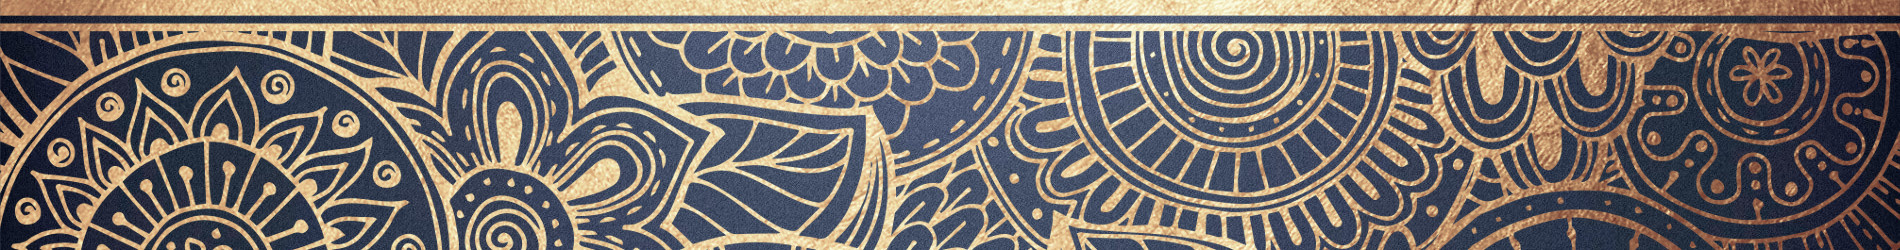
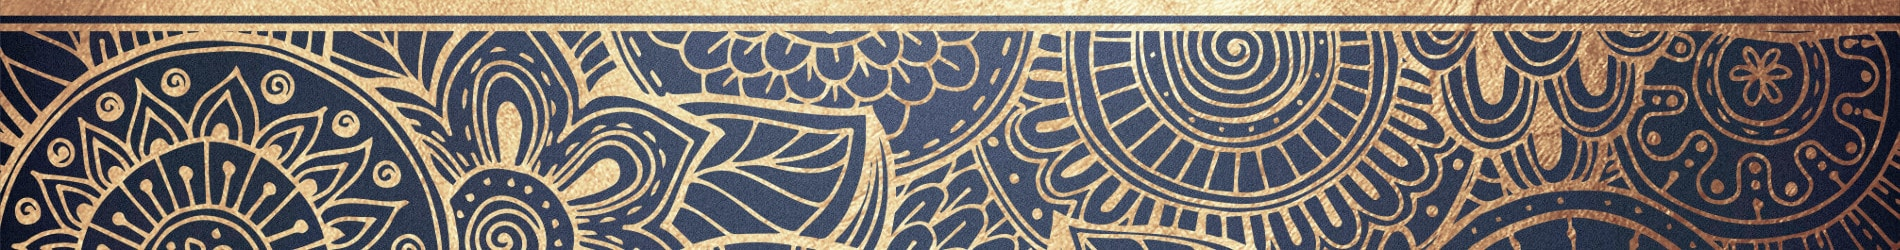
Оптимизация
Сжал изображения

diff --git a/index.html b/index.html
@@ -343,6 +343,6 @@
     <!-- jQuery (necessary for Bootstrap's JavaScript plugins) -->
     <script src="https://ajax.googleapis.com/ajax/libs/jquery/1.12.4/jquery.min.js"></script>
     <!-- Include all compiled plugins (below), or include individual files as needed -->
-    <script src="js/bootstrap.js"></script>
+    <script src="js/bootstrap.min.js"></script>
   </body>
 </html>
